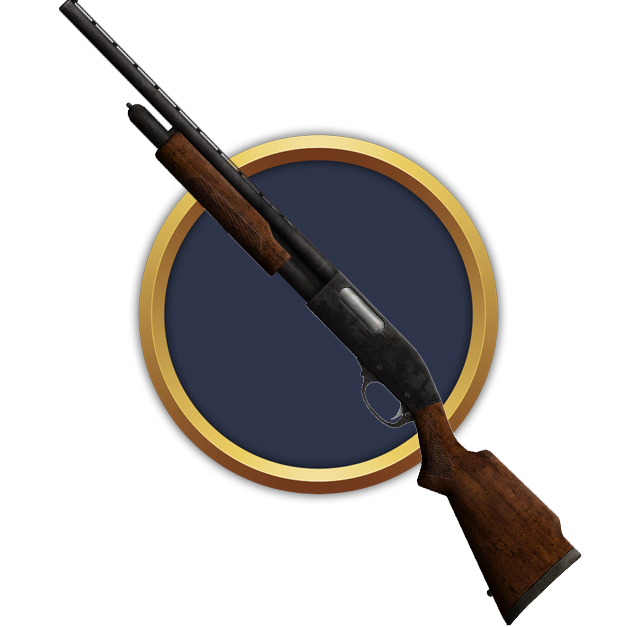
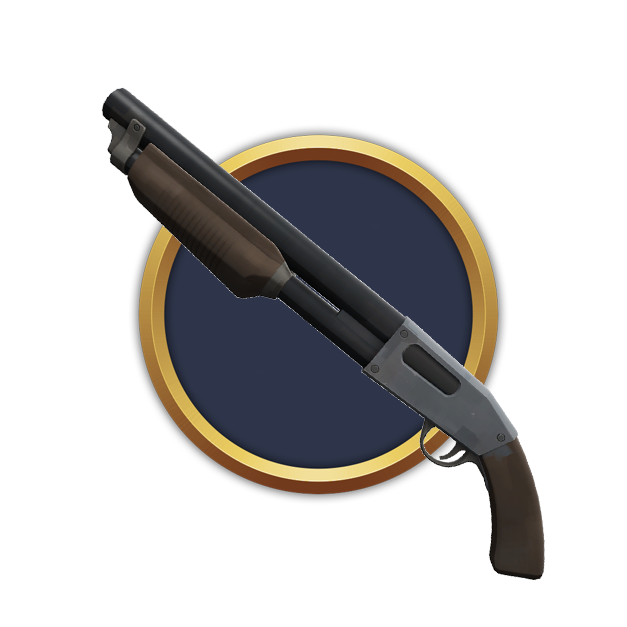
2d - changes...
1. Fixed today's errors
2. Added ion gun with icon and stuff
3. Minor changes

Changed region(s): [[0.0909, 0.0, 0.9394, 1.0]]

diff --git a/DirectX-11-Tutorial/DirectX-11-Tutorial/Globals.h b/DirectX-11-Tutorial/DirectX-11-Tutorial/Globals.h
@@ -5,7 +5,7 @@
 // Let us put our global defines here, which is actually a poor choice since cnahging this global defines rebuilds all the project
 // ------------------------------------------------------------------------------------------------------------------------
 
-#define MONSTERS_QTY             1
+#define MONSTERS_QTY             10
 
 #define fullScreen
 #undef  fullScreen
